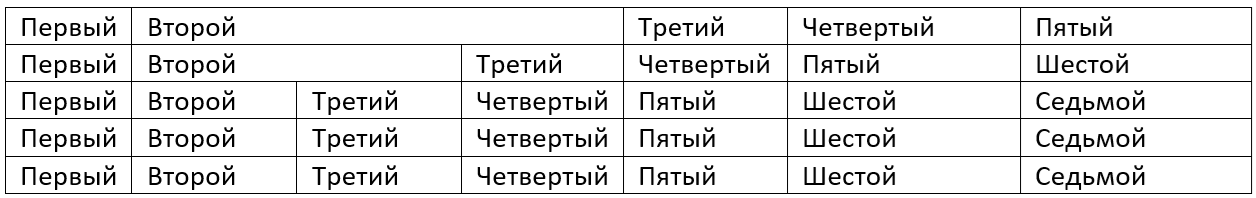
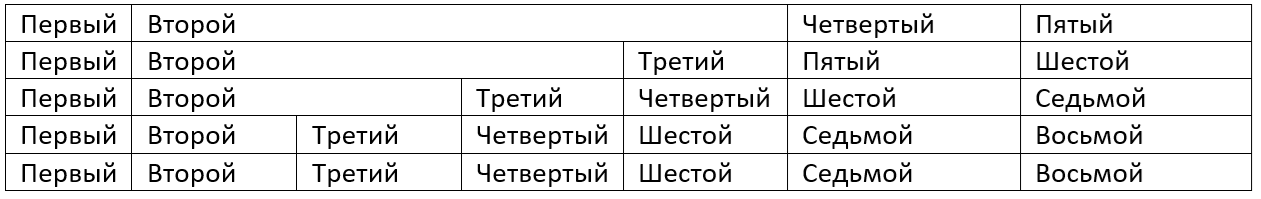
11.10.2024
Добавлено горизонтальное объединение

Changed region(s): [[0.0, 0.0, 1.0, 1.0]]

diff --git a/main.py b/main.py
@@ -17,7 +17,8 @@ path_result = "Result\\"
 # TEST_LINE.png
 # TEST_1.png
 # TABLE_SEPARATED.png
-name_img = path_images + "TABLE_SEPARATED.png"
+# TABLE_SEPARATED_MERGE.png
+name_img = path_images + "TABLE_SEPARATED_MERGE.png"
 img = Image.open(name_img)
 imageToMatrices = np.asarray(img)
 isHorizontal = True
@@ -194,12 +195,14 @@ def get_element(start_point):
     while True:
         # Получение правой верхней точки таблицы
         horizontal_point_answer = get_horizontal_node(left_top_point, displacement)
+        print(horizontal_point_answer)
 
         # Получение левой нижней точки таблицы
         vertical_point_answer = get_vertical_node(left_top_point, displacement)
 
         right_bottom_point = Point(x=horizontal_point_answer[0].x, y=vertical_point_answer[0].y)
-
+        # Смещение ячейки
+        displacement_cell = 0
         # Добавление новой ячейки
         # Проверка, первая ли строка заполняется или нет
         if i == 0:
@@ -215,7 +218,13 @@ def get_element(start_point):
         else:
             # Добавление новой ячейки в остальных строках
             if horizontal_point_answer[1] == TypePoint.POINT_DOWN:
-                add_coll_table(new_cells_table, i + 1, GroupDirection.LEFT)
+                add_coll_table(new_cells_table, j + 1, GroupDirection.LEFT)
+            elif horizontal_point_answer[1] == TypePoint.POINT_TOP:
+                while horizontal_point_answer[1] == TypePoint.POINT_TOP:
+                    displacement_cell += 1
+                    new_cells_table[i][j + displacement_cell] = GroupDirection.LEFT
+                    left_next_point = horizontal_point_answer[0]
+                    horizontal_point_answer = get_horizontal_node(left_next_point, displacement)
             new_cells_table[i][j] = Cell(
                 left_top_cell=left_top_point,
                 right_top_cell=horizontal_point_answer[0],
@@ -228,7 +237,7 @@ def get_element(start_point):
             imageToMatrices[horizontal_point_answer[0].y, horizontal_point_answer[0].x + displacement]
         ):
             # Переход на следующую ячейку
-            j += 1
+            j += 1 + displacement_cell
             left_top_point = horizontal_point_answer[0]
         else:
             # Проверка на существование следующей строки
@@ -243,6 +252,19 @@ def get_element(start_point):
             else:
                 break
 
+    i = 0
+    for row in new_cells_table:
+        j = 0
+        for cell in row:
+            print(str(i) + "|" + str(j), cell, sep='\n')
+            j += 1
+        i += 1
+
+    for row in new_cells_table:
+        for cell in row:
+            print(cell.__class__ if cell.__class__ == Cell else cell, end='\t\t')
+        print()
+
     table.cells_table = new_cells_table
     table.row = len(new_cells_table)
     table.column = len(new_cells_table[0])
@@ -252,8 +274,11 @@ def get_element(start_point):
 
 
 def filling_elements(element: [[]]):
+    i = 0
     for row in element:
+        j = 0
         for cell in row:
+            print(i, j, sep='|')
             if cell.__class__ is Cell:
                 crop = img.crop(
                     (cell.left_top_cell.x * 1.01,
@@ -265,6 +290,8 @@ def filling_elements(element: [[]]):
                 cell.content = string_from_image(
                     crop
                 )
+            j += 1
+        i += 1
     return
 
 
@@ -288,13 +315,17 @@ def create_word():
             for _ in range(element.row - 1):
                 table.AddRow()
 
+            merge_horizontal_counter = 0
             for i in range(len(element.cells_table)):
                 for j in range(len(element.cells_table[i])):
                     cell = element.cells_table[i][j]
                     if cell.__class__ is Cell:
                         table.Rows[i].Cells[j].AddParagraph().AppendText(element.cells_table[i][j].content).CharacterFormat.LocaleIdASCII = 1049
                     if cell is GroupDirection.LEFT:
-                        table.ApplyHorizontalMerge(i, j-1, j)
+                        merge_horizontal_counter += 1
+                        if element.cells_table[i][j + 1].__class__ is Cell:
+                            table.ApplyHorizontalMerge(i, j-merge_horizontal_counter, j)
+                            merge_horizontal_counter = 0
 
             section.Tables.Add(table)
 
